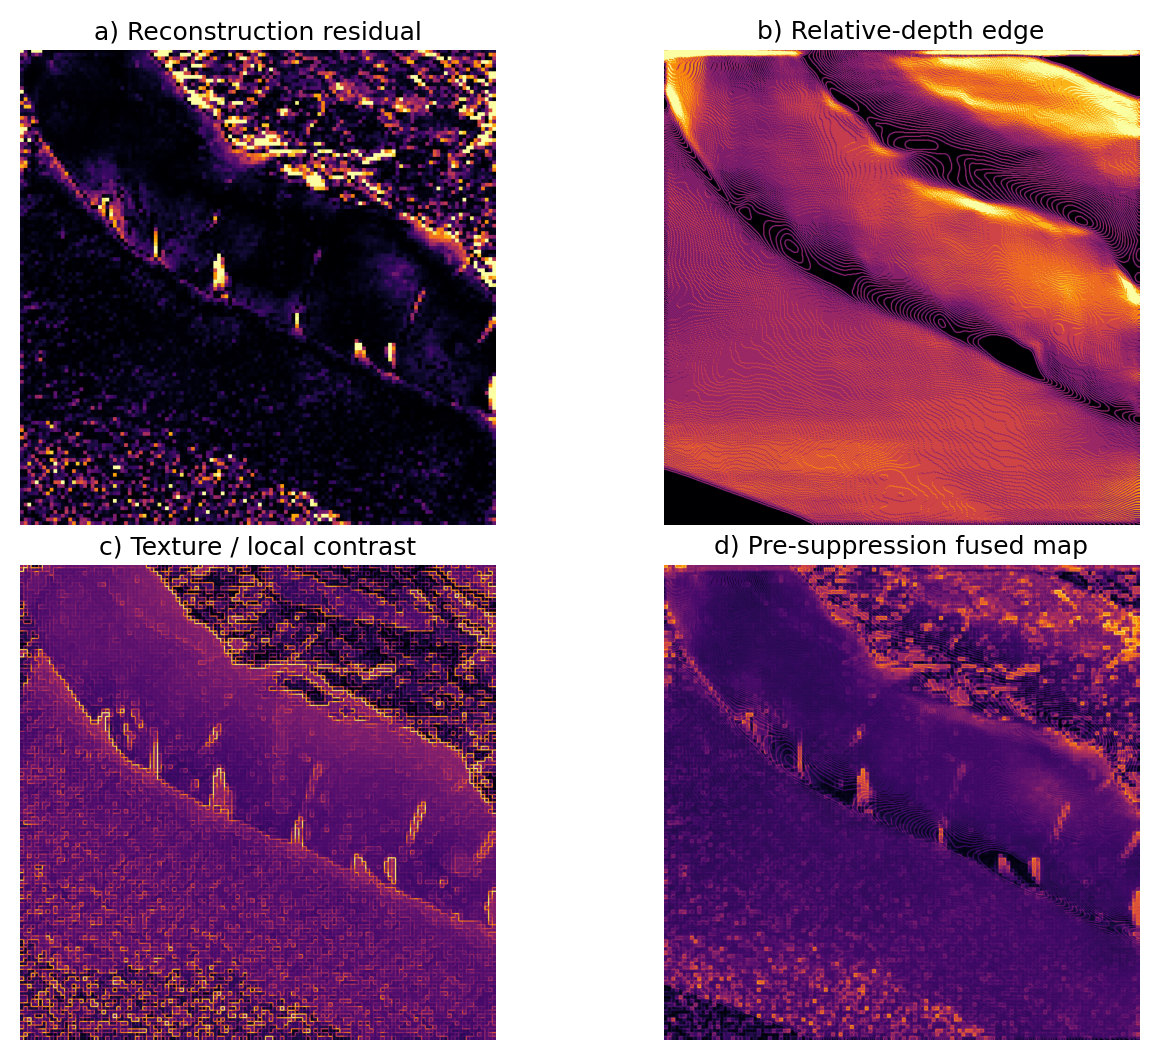
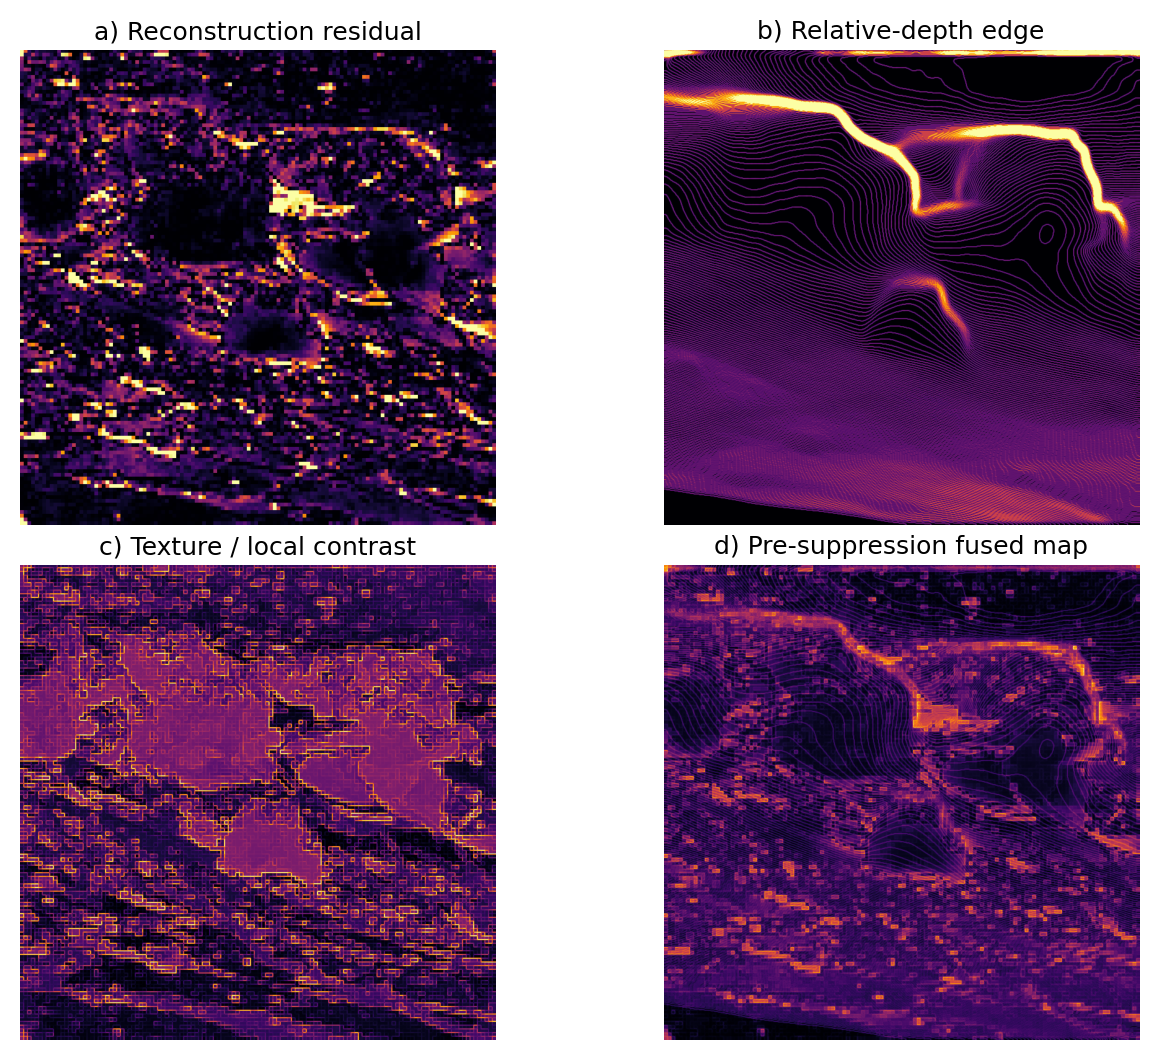
paper(iac2026): reselect Fig. 2/3 qualitative source

diff --git a/scripts/iac2026/generate_qualitative_figure.py b/scripts/iac2026/generate_qualitative_figure.py
@@ -1,4 +1,4 @@
-"""Deterministic non-test 4-panel qualitative ARTPS illustration (not a benchmark)."""
+"""Author-pool RGB-locked non-test 4-panel qualitative ARTPS illustration (not a benchmark)."""
 
 from __future__ import annotations
 
@@ -50,10 +50,23 @@ AE_SHA = "8186bbe6be424dd212d5d4a93b1ae36b80939552519706b4a8680c5d05e995f2"
[2 lines of base64/hex data omitted]
 
+LOCKED_RELATIVE_PATH = (
+    "train/boulder/curiosity_300_MAST_453_jpg.rf.6ecd29659d982741653bbe91b11ef22b.jpg"
+)
[1 lines of base64/hex data omitted]
+SELECTION_ORIGIN = "AUTHOR_1"
+AUTHOR_RGB_POOL = {
+    "AUTHOR_1": LOCKED_RELATIVE_PATH,
+    "AUTHOR_2": "0735MR0031500040403079E01_DXXX.jpg",
+    "AUTHOR_3": "Mars_Perseverance_Rover_Sands.png.png",
+    "AUTHOR_4": (
+        "train/boulder/curiosity_1500_MAST_1736_jpg.rf.a8aeaeffa6df777cc46abce36193bec4.jpg"
+    ),
+}
 SELECTION_RULE = (
-    "included rows from independent_eval_v1.csv; drop split==test or relative_path "
-    "under test/; sort by sample_id UTF-8 lexicographic; first existing file under "
-    "ARTPS_DATASET_ROOT; no score lookup before selection"
+    "selected before inference from an author-provided RGB candidate pool using "
+    "qualitative scene-composition and domain criteria; no ARTPS output, score, "
+    "or detection count used for selection"
 )
 
 
@@ -84,31 +97,34 @@ def _assert_test_closed() -> None:
             raise RuntimeError("final_test_authorized is not false")
 
 
-def select_sample(root: Path) -> dict[str, str]:
-    rows = list(csv.DictReader(MANIFEST.open(encoding="utf-8")))
-    cands: list[dict[str, str]] = []
-    for row in rows:
-        if (row.get("inclusion_status") or "").strip().lower() != "included":
-            continue
-        split = (row.get("split") or "").strip().lower()
-        rel = (row.get("relative_path") or "").replace("\\", "/").lstrip("/")
-        if split == "test" or rel.lower().startswith("test/"):
-            continue
-        cands.append(row)
-    cands.sort(key=lambda r: r["sample_id"])
-    for row in cands:
-        rel = row["relative_path"].replace("\\", "/").lstrip("/")
-        path = root / rel
-        if path.is_file():
-            return {
-                "sample_id": row["sample_id"],
-                "split": row["split"].strip(),
-                "relative_path": rel,
-                "product_id": row.get("product_id", ""),
-                "manifest_sha256": row.get("sha256", ""),
-                "abs_path": str(path.resolve()),
-            }
-    raise RuntimeError("no non-test included manifest image exists under ARTPS_DATASET_ROOT")
+def lock_sample(root: Path) -> dict[str, str]:
+    rel = LOCKED_RELATIVE_PATH.replace("\\", "/").lstrip("/")
+    if rel.lower().startswith("test/"):
+        raise RuntimeError(f"locked path is under test/: {rel}")
+    path = root / rel
+    if not path.is_file():
+        raise RuntimeError(f"locked source missing: {path}")
+    row: dict[str, str] = {}
+    if MANIFEST.is_file():
+        for cand in csv.DictReader(MANIFEST.open(encoding="utf-8")):
+            mrel = (cand.get("relative_path") or "").replace("\\", "/").lstrip("/")
+            if mrel == rel:
+                row = cand
+                break
+    split = (row.get("split") or rel.split("/", 1)[0]).strip()
+    if split.lower() == "test":
+        raise RuntimeError(f"locked source is test split: {rel}")
+    included = (row.get("inclusion_status") or "").strip().lower() == "included"
+    sample_id = (row.get("sample_id") or "").strip() or f"author_pool_{SELECTION_ORIGIN}_{path.name}"
+    return {
+        "sample_id": sample_id,
+        "split": split,
+        "relative_path": rel,
+        "product_id": (row.get("product_id") or "curiosity_300_mast_453").strip(),
+        "manifest_sha256": (row.get("sha256") or "").strip(),
+        "in_independent_eval_v1_included": included,
+        "abs_path": str(path.resolve()),
+    }
 
 
 def _to_u8(rgb_float: np.ndarray) -> np.ndarray:
@@ -139,11 +155,13 @@ def _git_sha() -> str:
 def main() -> int:
     _assert_test_closed()
     root = _dataset_root()
-    sample = select_sample(root)
+    sample = lock_sample(root)
     split_l = sample["split"].lower()
     if split_l == "test":
         raise RuntimeError("selected sample is test; abort")
     file_sha = _sha256_file(Path(sample["abs_path"]))
+    if file_sha != LOCKED_FILE_SHA256:
+        raise RuntimeError(f"locked source sha256 mismatch: {file_sha}")
     if sample["manifest_sha256"] and file_sha != sample["manifest_sha256"]:
         raise RuntimeError(
             f"source sha256 mismatch: manifest={sample['manifest_sha256']} file={file_sha}"
@@ -232,8 +250,16 @@ def main() -> int:
         "abs_path": sample["abs_path"],
         "file_sha256": file_sha,
         "selection_rule": SELECTION_RULE,
+        "selection_origin": SELECTION_ORIGIN,
+        "author_rgb_pool": AUTHOR_RGB_POOL,
+        "source_selection_locked": True,
+        "in_independent_eval_v1_included": sample["in_independent_eval_v1_included"],
+        "mission": "Curiosity",
+        "instrument": "Mastcam",
         "test_used": False,
         "score_blind_selection": True,
+        "model_output_used_for_selection": False,
+        "score_based_cherry_picking": False,
         "git_sha_at_generation": _git_sha(),
         "config_yaml": str(CONFIG_YAML.relative_to(REPO)).replace("\\", "/"),
         "config_id": "artps_full_frozen_mars_clf_on_v1",

diff --git a/tests/iac2026/test_v1_1_manuscript_integration.py b/tests/iac2026/test_v1_1_manuscript_integration.py
@@ -160,8 +160,15 @@ def test_camera_ready_figure_and_bibliography():
     )
     assert meta["test_used"] is False
     assert meta["score_blind_selection"] is True
+    assert meta.get("model_output_used_for_selection") is False
+    assert meta.get("score_based_cherry_picking") is False
     assert str(meta["split"]).lower() != "test"
-    assert "test/" not in str(meta["relative_path"]).replace("\\", "/").lower()
+    rel = str(meta["relative_path"]).replace("\\", "/")
+    assert "test/" not in rel.lower()
+    assert rel == (
+        "train/boulder/curiosity_300_MAST_453_jpg.rf.6ecd29659d982741653bbe91b11ef22b.jpg"
+    )
+    assert "deterministically selected" not in methods.lower()
     assert r"\begin{tikzpicture}" in fig
     assert r"\RequirePackage{tikz}" in sty or r"\usepackage{tikz}" in sty
     cap = methods.lower()
@@ -211,6 +218,7 @@ def test_cue_decomposition_figure_and_caption():
     assert "non-metric" in cap_l
     assert "not used as an additional quantitative benchmark" in cap_l
     assert cue_meta["sample_id"] == fig2_meta["sample_id"]
+    assert cue_meta["file_sha256"] == fig2_meta["file_sha256"]
     assert cue_meta["test_used"] is False
     assert cue_meta.get("new_sample_selection") is False
     assert "0.920" not in results
@@ -249,6 +257,7 @@ def test_scientific_definition_pass_language():
         "planning level",
         "may be discussed qualitatively",
         "must not migrate",
+        "deterministically selected",
         "c05",
         "c06",
         "c07",
@@ -314,6 +323,10 @@ def test_close_far_qualitative_figure():
     far_rel = str(meta["far"]["relative_path"]).replace("\\", "/")
     assert close_rel in ALLOWED_CLOSE_FAR_POOL
     assert far_rel in ALLOWED_CLOSE_FAR_POOL
+    fig2_rel = json.loads(
+        (REPO / "paper/iac2026/figures/fig_qualitative_artps.meta.json").read_text(encoding="utf-8")
+    )["relative_path"].replace("\\", "/")
+    assert close_rel != fig2_rel and far_rel != fig2_rel
     assert str(meta["close"]["split"]).lower() != "test"
     assert str(meta["far"]["split"]).lower() != "test"
     assert "test/" not in close_rel.lower()

diff --git a/scripts/iac2026/generate_cue_decomposition_figure.py b/scripts/iac2026/generate_cue_decomposition_figure.py
@@ -42,12 +42,6 @@ AE_SHA = "8186bbe6be424dd212d5d4a93b1ae36b80939552519706b4a8680c5d05e995f2"
[2 lines of base64/hex data omitted]
 
-EXPECTED_SAMPLE_ID = (
-    "ie1_train_boulder_curiosity_100_MAST_106_jpg.rf."
-    "78c4b8fcf62f2b932ebccf43bd427980.jpg_4dd2d929c0ee"
-)
[1 lines of base64/hex data omitted]
-
 
 def _sha256_file(path: Path) -> str:
     h = hashlib.sha256()
@@ -91,21 +85,22 @@ def _display_minmax(arr: np.ndarray) -> np.ndarray:
 def main() -> int:
     _assert_test_closed()
     fig2 = json.loads(FIG2_META.read_text(encoding="utf-8"))
-    if fig2.get("sample_id") != EXPECTED_SAMPLE_ID:
-        raise RuntimeError(f"Fig. 2 sample_id mismatch: {fig2.get('sample_id')}")
     if str(fig2.get("split", "")).lower() == "test":
         raise RuntimeError("Fig. 2 sample is test; abort")
-    if fig2.get("file_sha256") != EXPECTED_SHA256:
-        raise RuntimeError("Fig. 2 file_sha256 mismatch")
+    expected_sha = str(fig2.get("file_sha256") or "")
+    if not expected_sha:
+        raise RuntimeError("Fig. 2 meta missing file_sha256")
 
     root = _dataset_root()
     rel = str(fig2["relative_path"]).replace("\\", "/").lstrip("/")
+    if rel.lower().startswith("test/"):
+        raise RuntimeError(f"Fig. 2 relative_path is under test/: {rel}")
     src = root / rel
     if not src.is_file():
         raise RuntimeError(f"Fig. 2 source missing under ARTPS_DATASET_ROOT: {src}")
     file_sha = _sha256_file(src)
-    if file_sha != EXPECTED_SHA256:
-        raise RuntimeError(f"source sha256 mismatch: {file_sha}")
+    if file_sha != expected_sha:
+        raise RuntimeError(f"source sha256 mismatch vs Fig. 2 meta: {file_sha}")
 
     cfg = FrozenARTPSConfig(
         preprocessing_profile="mars_enhancement_v1",

diff --git a/paper/iac2026/sections/experiments.tex b/paper/iac2026/sections/experiments.tex
@@ -46,8 +46,9 @@ The primary image score is \texttt{max\_valid\_candidate\_after\_masks}.
 The held-out test partition was not opened: no test inference, no test metric, and no
 threshold retune on held-out images.
 Numeric supplementary results below use the human-reviewed annotation version only.
-The qualitative example in Figure~\ref{fig:qualitative} uses one deterministically selected
-non-test image from the same manifest under the frozen image-score path.
+Figure~\ref{fig:qualitative} shows a qualitative non-test Mars scene selected before inference
+from an author-provided RGB candidate pool on the basis of scene structure and domain
+suitability, under the frozen image-score path.
 Figure~\ref{fig:close-far} adds one close-range and one distant-scene illustration from a
 fixed author-provided pool; it is not a range-conditioned performance study.
 

diff --git a/paper/iac2026/sections/methods.tex b/paper/iac2026/sections/methods.tex
@@ -167,8 +167,9 @@ Suppression is policy-driven and auditable; it is not a claim of perfect distrac
 \begin{figure*}[!t]
 \centering
 \includegraphics[width=\textwidth]{figures/fig_qualitative_artps.png}
-\caption{Qualitative ARTPS processing example from a deterministically selected non-test Mars
-image.
+\caption{Qualitative ARTPS processing example from a non-test Mars scene selected before
+inference from an author-provided RGB candidate pool on the basis of scene structure and
+domain suitability.
 Panels show the RGB input, the post-suppression combined anomaly map, monocular image-relative
 depth, and the valid-candidate localization produced by the frozen image-score path.
 The depth visualization is relative and non-metric.

diff --git a/paper/iac2026/figures/FIG_CUE_DECOMPOSITION_PROVENANCE.md b/paper/iac2026/figures/FIG_CUE_DECOMPOSITION_PROVENANCE.md
@@ -5,24 +5,26 @@ Source selection is inherited from Fig. 2; no new sample was chosen.
 
 | # | Field | Value |
 | --- | --- | --- |
-| 1 | Source image ID | `ie1_train_boulder_curiosity_100_MAST_106_jpg.rf.78c4b8fcf62f2b932ebccf43bd427980.jpg_4dd2d929c0ee` |
-| 2 | Manifest product_id | `curiosity_100_mast_106` |
-| 3 | Relative path | `train/boulder/curiosity_100_MAST_106_jpg.rf.78c4b8fcf62f2b932ebccf43bd427980.jpg` |
[1 lines of base64/hex data omitted]
-| 5 | Split | `train` (not test) |
-| 6 | Source selection inherited from Fig. 2 | **YES** (`fig_qualitative_artps.meta.json`; generator does not call `select_sample()`) |
-| 7 | New sample selection | **NO** |
-| 8 | Repository commit at generation | `e1607508375ac841b68252e548c7adf7440e81bd` (`main` @ PR #39); panel (d) relabel only |
[1 lines of base64/hex data omitted]
-| 10 | Inference profile / config | `artps_full_frozen_mars_clf_on_v1` (`reproduction/iac2026/configs/independent_eval_artps_full_frozen_mars.yaml`) |
-| 11 | Preprocessing | `mars_enhancement_v1`, Real-ESRGAN off |
-| 12 | Frozen fusion weights | primary `w_recon=0.50`, `w_depth=0.30`, `w_texture=0.20`; also in the mix (not extra panels) `w_lap=0.08` (`depth_lap_n`), `w_detail=0.12` (gray Laplacian+DoG) |
-| 13 | Inference vs visualization normalization | inference: `_normalize_map` percentile 2–98 per cue before weighting; visualization: per-panel min–max for display only |
-| 14 | Output | `paper/iac2026/figures/fig_cue_decomposition_artps.png` |
-| 15 | Generation command | `set ARTPS_DATASET_ROOT=<repo>/mars_images` then `python scripts/iac2026/generate_cue_decomposition_figure.py` |
-| 16 | Test data used | **NO** (`test_opened=false`, `final_test_authorized=false`) |
-| 17 | Quantitative experiment | **NO** |
-| 18 | Classifier in fused map | **NO** (classifier ON in config for scoring / curiosity; not a `combined_map` term) |
+| 1 | Source image ID | `author_pool_AUTHOR_1_curiosity_300_MAST_453_jpg.rf.6ecd29659d982741653bbe91b11ef22b.jpg` |
+| 2 | Manifest product_id | `curiosity_300_mast_453` (not in `independent_eval_v1` included rows) |
+| 3 | Relative path | `train/boulder/curiosity_300_MAST_453_jpg.rf.6ecd29659d982741653bbe91b11ef22b.jpg` |
[1 lines of base64/hex data omitted]
+| 5 | Split | filesystem `train` (not test) |
+| 6 | Mission / instrument | Curiosity / Mastcam |
+| 7 | Source selection inherited from Fig. 2 | **YES** (`fig_qualitative_artps.meta.json`; generator does not select a new image) |
+| 8 | New sample selection | **NO** |
+| 9 | Selection lock | same locked AUTHOR_1 source as Fig. 2; `model_output_used_for_selection=false`; `score_based_cherry_picking=false` |
+| 10 | Repository commit at generation | `acb328619376618b530d97bd041e64d59209b538` (`main` @ PR #41) |
[1 lines of base64/hex data omitted]
+| 12 | Inference profile / config | `artps_full_frozen_mars_clf_on_v1` (`reproduction/iac2026/configs/independent_eval_artps_full_frozen_mars.yaml`) |
+| 13 | Preprocessing | `mars_enhancement_v1`, Real-ESRGAN off |
+| 14 | Frozen fusion weights | primary `w_recon=0.50`, `w_depth=0.30`, `w_texture=0.20`; also in the mix (not extra panels) `w_lap=0.08` (`depth_lap_n`), `w_detail=0.12` (gray Laplacian+DoG) |
+| 15 | Inference vs visualization normalization | inference: `_normalize_map` percentile 2–98 per cue before weighting; visualization: per-panel min–max for display only |
+| 16 | Output | `paper/iac2026/figures/fig_cue_decomposition_artps.png` |
+| 17 | Generation command | `set ARTPS_DATASET_ROOT=<repo>/mars_images` then `python scripts/iac2026/generate_cue_decomposition_figure.py` |
+| 18 | Test data used | **NO** (`test_opened=false`, `final_test_authorized=false`) |
+| 19 | Quantitative experiment | **NO** |
+| 20 | Classifier in fused map | **NO** (classifier ON in config for scoring / curiosity; not a `combined_map` term) |
 
 Additional: score-based cherry-picking **NO**; Priority Buffer / curiosity / diversity **not** applied; panel (b) is relative-depth **edge** (Sobel magnitude), not protrusion; panel (d) is `raw_combined_pre_mask` after proximity mix and **before** FP suppression (display title: pre-suppression fused map); cue arrays come from `compute_combined_anomaly_map` diagnostics (`recon_diff_n`, `depth_edge_n`, `texture_term`, `raw_combined_pre_mask`). Display min–max is per panel and not numerically comparable across panels.
 

diff --git a/paper/iac2026/figures/FIG_QUALITATIVE_PROVENANCE.md b/paper/iac2026/figures/FIG_QUALITATIVE_PROVENANCE.md
@@ -4,21 +4,24 @@ Illustration only. Not a quantitative experiment and not a Results metric.
 
 | Field | Value |
 | --- | --- |
-| 1. Source image ID | `ie1_train_boulder_curiosity_100_MAST_106_jpg.rf.78c4b8fcf62f2b932ebccf43bd427980.jpg_4dd2d929c0ee` |
-| Manifest product_id | `curiosity_100_mast_106` |
-| Relative path | `train/boulder/curiosity_100_MAST_106_jpg.rf.78c4b8fcf62f2b932ebccf43bd427980.jpg` |
[1 lines of base64/hex data omitted]
-| 2. Split | `train` (not test) |
-| 3. Selection rule | included rows from `independent_eval_v1.csv`; drop `split==test` or `relative_path` under `test/`; sort by `sample_id` UTF-8 lexicographic; first existing file under `ARTPS_DATASET_ROOT`; **no score lookup before selection** |
-| 4. Repository commit at generation | `e1607508375ac841b68252e548c7adf7440e81bd` (`main` @ PR #39); panel (b) relabel only |
[1 lines of base64/hex data omitted]
-| 6. Inference profile / config | `artps_full_frozen_mars_clf_on_v1` (`reproduction/iac2026/configs/independent_eval_artps_full_frozen_mars.yaml`) |
-| 7. Preprocessing | `mars_enhancement_v1`, Real-ESRGAN off |
-| 8. Output | `paper/iac2026/figures/fig_qualitative_artps.png` |
-| 9. Generation command | `set ARTPS_DATASET_ROOT=<repo>/mars_images` then `python scripts/iac2026/generate_qualitative_figure.py` |
-| 10. Score-blind selection | **YES** |
-| 11. Test data used | **NO** (`test_opened=false`, `final_test_authorized=false`) |
+| 1. Source image ID | `author_pool_AUTHOR_1_curiosity_300_MAST_453_jpg.rf.6ecd29659d982741653bbe91b11ef22b.jpg` |
+| Manifest product_id | `curiosity_300_mast_453` (not in `independent_eval_v1` included rows) |
+| Relative path | `train/boulder/curiosity_300_MAST_453_jpg.rf.6ecd29659d982741653bbe91b11ef22b.jpg` |
+| Mission / instrument | Curiosity / Mastcam |
[1 lines of base64/hex data omitted]
+| 2. Split | filesystem `train` (not test) |
+| 3. Selection procedure | selected before inference from an author-provided RGB candidate pool using qualitative scene-composition and domain criteria (`AUTHOR_1`); pool also considered AUTHOR_2–4; no optional dataset search |
+| 4. Selection lock | `source_selection_locked=true`; origin `AUTHOR_1` |
+| 5. Repository commit at generation | `acb328619376618b530d97bd041e64d59209b538` (`main` @ PR #41) |
[1 lines of base64/hex data omitted]
+| 7. Inference profile / config | `artps_full_frozen_mars_clf_on_v1` (`reproduction/iac2026/configs/independent_eval_artps_full_frozen_mars.yaml`) |
+| 8. Preprocessing | `mars_enhancement_v1`, Real-ESRGAN off |
+| 9. Output | `paper/iac2026/figures/fig_qualitative_artps.png` |
+| 10. Generation command | `set ARTPS_DATASET_ROOT=<repo>/mars_images` then `python scripts/iac2026/generate_qualitative_figure.py` |
+| 11. `model_output_used_for_selection` | **false** |
+| 12. `score_based_cherry_picking` | **false** |
+| 13. Test data used | **NO** (`test_opened=false`, `final_test_authorized=false`) |
 
-Additional (not manuscript metrics): frozen image-score aggregation `max_valid_candidate_after_masks`; Priority Buffer / curiosity / diversity **not** applied; device `cuda`; 4 raw detections, 4 valid candidates after masks.
+Additional (not manuscript metrics): frozen image-score aggregation `max_valid_candidate_after_masks`; Priority Buffer / curiosity / diversity **not** applied; device `cuda`; 3 raw detections, 2 valid candidates after masks.
 
 Machine-readable copy: `fig_qualitative_artps.meta.json`.
